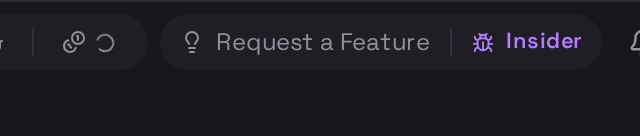
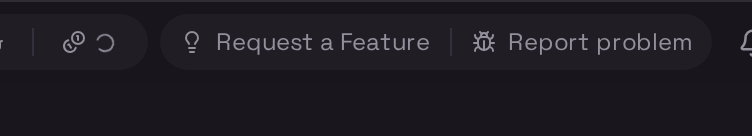
fix(dashboard): make the prerelease report chip read as an action, not a badge
Follow-up to #1996, which merged while its UX review was still advisory-pending.

## Problem

The chip that gives nightly / insider users an always-visible way to report a
problem rendered only a Bug icon plus the lane name -- "Nightly" / "Insider" --
in accent colour at 11px semibold with `tracking-wide`. That is badge typography
carrying a status word, so it read as an identity indicator. The action lived
solely in `title` / `aria-label`.

A tooltip is not discoverability: it requires a hover the user has no reason to
attempt. A first-time prerelease user pattern-matches an accent-coloured channel
word to a status badge, never hovers, and never learns the control is clickable
-- which defeats the entire purpose of the feature #1996 added. Every prerelease
user, every session, permanently.

Second, smaller problem: the chip promised a "bug" report while the flow it opens
is titled "Report a Problem" everywhere else (`ReportProblemModal`, the nav rail
link, Settings > About). A user who clicked had to re-read the dialog to check
they had landed in the right place.

## Fix

The chip is now just the action, styled exactly like its sibling:

    [Lightbulb] Request a Feature | [Bug] Report problem

Same 12px, same muted-to-text hover, no accent, no lane. Matching the sibling is
what makes it read as the second half of ONE control rather than a decoration
hanging off the end -- and an action word in plain button styling is the whole of
what makes it discoverable.
[…]

Changed region(s): [[0.2188, 0.2353, 0.9375, 0.4118], [0.0625, 0.2059, 0.1875, 0.3824], [0.9688, 0.2353, 1.0, 0.3529]]

diff --git a/website/src/components/FeedbackPill.tsx b/website/src/components/FeedbackPill.tsx
@@ -22,11 +22,11 @@ import { i18nT } from '../i18n/t'
  * previously they had to know to look in Settings › About, and on a CLI install
  * that note did not render at all.
  *
- * WHY IT DOUBLES AS AN IDENTITY BADGE. Showing the lane is the reason this
- * cannot be dismissed away like a banner: a prerelease user wants to know which
- * bytes they are running, so the affordance earns its place in the header even
- * on the days nothing is broken — and it is still there weeks later when
- * something finally is.
+ * WHY THE LANE IS NOT ON THE CHIP. It reads as an action, not as a status badge:
+ * the visible text is the action alone, styled identically to its sibling. Which
+ * build the report will be tagged against is real information, but it belongs in
+ * the tooltip — a lane name competing with the action for the eye is what made an
+ * earlier revision read as an identity indicator nobody thought to click.
  */
 export default function FeedbackPill({
   onRequestFeature,
@@ -52,6 +52,15 @@ export default function FeedbackPill({
       ? i18nT('components.feedbackPill.nightly')
       : i18nT('components.feedbackPill.insider')
 
+  // One string for tooltip AND accessible name, so the two can never drift.
+  // Names the flow the way the flow names ITSELF ("Report a Problem" — see
+  // ReportProblemModal): a chip that promises a "bug report" and opens a
+  // "Report a Problem" dialog makes the user re-read the dialog to check they
+  // clicked the right thing.
+  const actionDescription = i18nT('components.feedbackPill.report_problem_on_build', {
+    channel: channelLabel,
+  })
+
   return (
     <div
       data-testid="feedback-pill"
@@ -75,23 +84,25 @@ export default function FeedbackPill({
           <button
             type="button"
             data-testid="prerelease-report-chip"
-            // Accent-toned, not warn/danger: this is a request for help, not a
-            // warning that the install is broken. A first-time reader took a
-            // warn-tinted prerelease note as "something is wrong with my
-            // installation" and would not click it (see AboutPanel).
-            className="flex items-center gap-1.5 h-full px-2.5 text-accent hover:bg-bg-hover transition-colors cursor-pointer text-[11px] font-semibold tracking-wide whitespace-nowrap bg-transparent border-0"
+            // Styled EXACTLY like its sibling: same 12px, same muted-to-text
+            // hover. An earlier revision made this accent-coloured, 11px
+            // semibold, tracking-wide, with the lane name as its only visible
+            // text — badge typography carrying a status word, which read as an
+            // identity indicator, so a first-time user had no reason to click
+            // and the always-visible report entry went undiscovered.
+            //
+            // Matching the sibling is what makes it read as the second half of
+            // one control rather than a decoration hanging off the end.
+            className="flex items-center gap-1.5 h-full px-2.5 text-muted hover:text-text transition-colors cursor-pointer text-[12px] whitespace-nowrap bg-transparent border-0"
             onClick={onReportProblem}
-            // The visible text names the LANE (that is the identity half of the
-            // control); the accessible name and the tooltip name the ACTION, so
-            // the chip is never just an unexplained word to a screen reader.
-            title={i18nT('components.feedbackPill.report_bug_on_build', {
-              channel: channelLabel,
-            })}
-            aria-label={i18nT('components.feedbackPill.report_bug_on_build', {
-              channel: channelLabel,
-            })}
+            // The LANE lives here and only here. Which build a report will be
+            // tagged against is useful but secondary, so it is supplementary
+            // hover detail — not a word competing with the action for the eye.
+            title={actionDescription}
+            aria-label={actionDescription}
           >
-            <Bug size={13} className="lucide-inline" /> {channelLabel}
+            <Bug size={13} className="lucide-inline" />{' '}
+            {i18nT('components.feedbackPill.report_problem')}
           </button>
         </>
       )}

diff --git a/website/src/test/FeedbackPill.test.tsx b/website/src/test/FeedbackPill.test.tsx
@@ -74,19 +74,62 @@ describe('FeedbackPill', () => {
     expect(onReportProblem).not.toHaveBeenCalled()
   })
 
-  it('gives the chip an accessible name that states the ACTION', () => {
-    // The visible text is the lane ("Nightly"), which alone tells a screen
-    // reader nothing about what the button does.
+  it('renders the action as its visible text', () => {
+    // The UX review's finding, pinned. The chip once rendered only a Bug icon
+    // and the lane name ("Nightly") in accent badge type, with the action
+    // confined to the tooltip — which reads as a status badge, so a first-time
+    // prerelease user has no reason to click and the always-visible report entry
+    // is never discovered. A tooltip is not discoverability: it requires a hover
+    // the user has no reason to attempt.
     status.release_channel = 'nightly'
     mount()
-    expect(screen.getByTestId('prerelease-report-chip')).toHaveAccessibleName(
-      /report a bug/i,
+    expect(screen.getByTestId('prerelease-report-chip').textContent).toMatch(
+      /report problem/i,
     )
   })
 
-  it('names the lane the user is actually on', () => {
+  it('gives the chip an accessible name that states the ACTION', () => {
+    status.release_channel = 'nightly'
+    mount()
+    expect(screen.getByTestId('prerelease-report-chip')).toHaveAccessibleName(
+      /report a problem/i,
+    )
+  })
+
+  it('speaks the same name as the flow it opens', () => {
+    // The modal, the nav rail link and Settings › About all call this "Report a
+    // Problem". A chip promising a "bug report" made the user re-read the
+    // dialog to check they had clicked the right thing.
     status.release_channel = 'insider'
     mount()
-    expect(screen.getByTestId('prerelease-report-chip').textContent).toMatch(/insider/i)
+    const chip = screen.getByTestId('prerelease-report-chip')
+    expect(chip.getAttribute('title')).toMatch(/problem/i)
+    expect(chip.textContent).not.toMatch(/\bbug\b/i)
+  })
+
+  it.each(['nightly', 'insider'])(
+    'keeps the %s lane out of the visible text',
+    ch => {
+      // The control is an ACTION, not a status readout. A lane name competing
+      // with the action for the eye is what made the earlier revision read as
+      // an identity badge, so its absence here is the fix — asserted because a
+      // well-meaning "show the user which build they're on" edit would
+      // reintroduce it and every other test would still pass.
+      status.release_channel = ch
+      mount()
+      expect(screen.getByTestId('prerelease-report-chip').textContent).not.toMatch(
+        new RegExp(ch, 'i'),
+      )
+    },
+  )
+
+  it('still names the lane in the tooltip', () => {
+    // Which build a report gets tagged against is real information — it is
+    // supplementary, not absent.
+    status.release_channel = 'nightly'
+    mount()
+    expect(screen.getByTestId('prerelease-report-chip').getAttribute('title')).toMatch(
+      /nightly/i,
+    )
   })
 })
